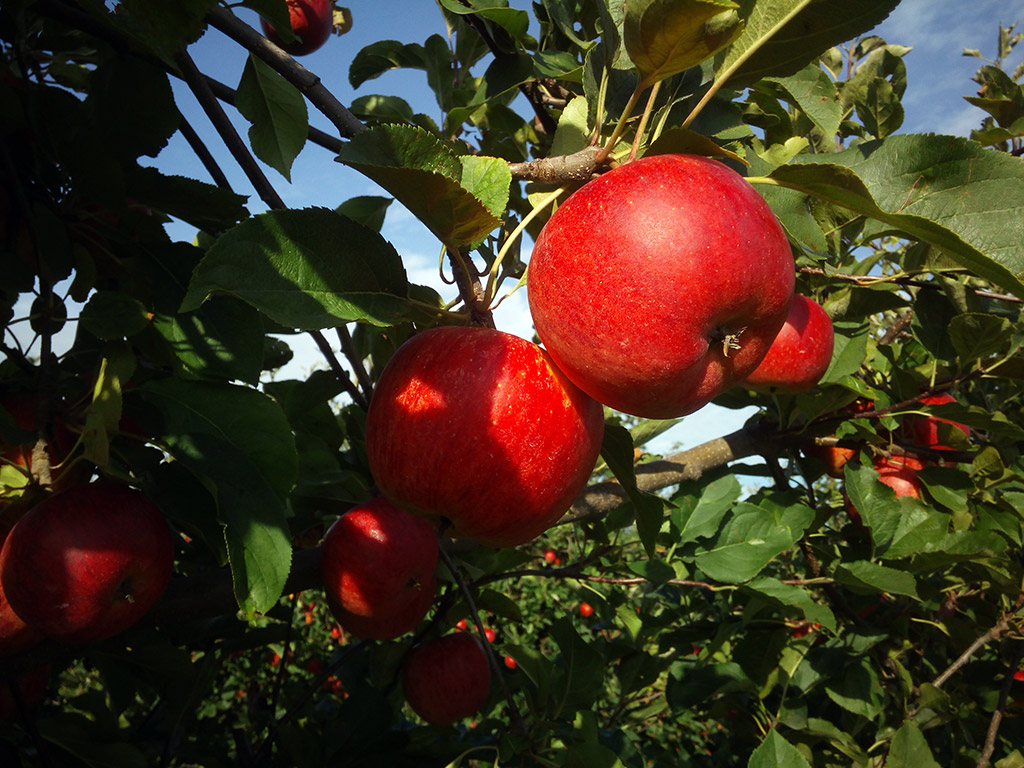
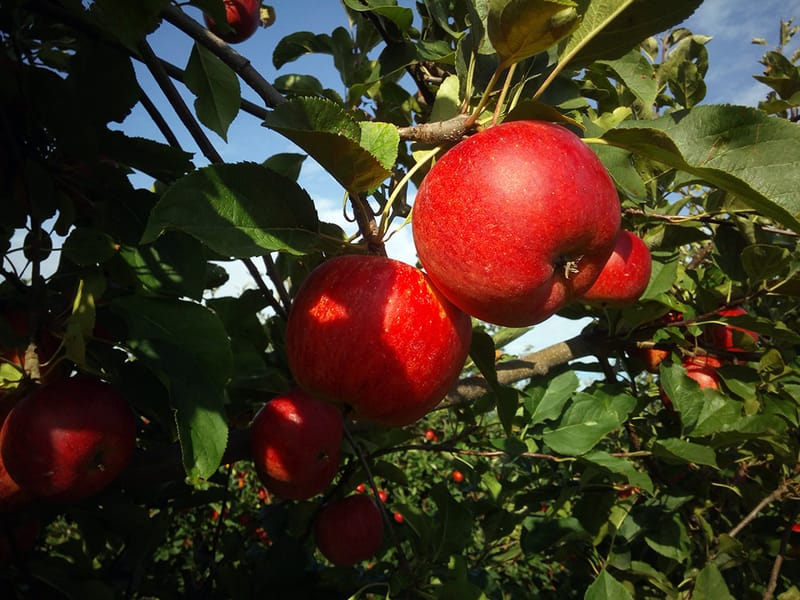
Add 33 new photos, optimize all images, update hero/gallery/spotkaj-nas
- 33 new photos added to gallery with clean names and thumbnails

- Jablkobranie mini-gallery with 14 photos and lightbox on Spotkaj nas page

- New Bazar smakoszy photos replacing old placeholders

- Hero images updated: soki, odmiany, spotkaj-nas, galeria, kontakt

- All images optimized with sharp: hero 1920px, gallery 1600px, thumbnails 600px

- Odmiany thumbnails generated at 400px for grid display

- GalleryPhoto interface extended with thumb field for performance

Made-with: Cursor

Changed region(s): [[0.4688, 0.3, 0.5, 0.39], [0.5, 0.45, 0.5312, 0.48], [0.5, 0.27, 0.5312, 0.3]]

diff --git a/src/components/odwiedz-nas/OdwiedzNasContent.tsx b/src/components/odwiedz-nas/OdwiedzNasContent.tsx
@@ -1,15 +1,52 @@
 "use client";
 
+import { useState, useCallback } from "react";
 import Image from "next/image";
-import Link from "next/link";
 import { motion } from "framer-motion";
 import { Facebook } from "lucide-react";
 import SectionHeading from "@/components/ui/SectionHeading";
 import AnimatedSection from "@/components/ui/AnimatedSection";
 import SalesMap from "@/components/odwiedz-nas/SalesMap";
+import Lightbox from "@/components/ui/Lightbox";
 import { siteConfig } from "@/lib/data";
 
+const jablkobraniePhotos = [
+  { src: "/images/gallery/jablkobranie-glowne.jpg", thumb: "/images/gallery/jablkobranie-glowne-thumb.jpg", alt: "Jabłkobranie u Celmerów — zbiory" },
+  { src: "/images/gallery/jablkobranie-01.jpg", thumb: "/images/gallery/jablkobranie-01-thumb.jpg", alt: "Jabłkobranie — letni sad" },
+  { src: "/images/gallery/jablkobranie-02.jpg", thumb: "/images/gallery/jablkobranie-02-thumb.jpg", alt: "Jabłkobranie — kosze pełne jabłek" },
+  { src: "/images/gallery/jablkobranie-03.jpg", thumb: "/images/gallery/jablkobranie-03-thumb.jpg", alt: "Jabłkobranie — rodzinna zabawa" },
+  { src: "/images/gallery/jablkobranie-04.jpg", thumb: "/images/gallery/jablkobranie-04-thumb.jpg", alt: "Jabłkobranie — zbiory październikowe" },
+  { src: "/images/gallery/jablkobranie-05.jpg", thumb: "/images/gallery/jablkobranie-05-thumb.jpg", alt: "Jabłkobranie — degustacja" },
+  { src: "/images/gallery/jablkobranie-06.jpg", thumb: "/images/gallery/jablkobranie-06-thumb.jpg", alt: "Jabłkobranie — jabłka na drzewach" },
+  { src: "/images/gallery/jablkobranie-07.jpg", thumb: "/images/gallery/jablkobranie-07-thumb.jpg", alt: "Jabłkobranie — wiosenne przygotowania" },
+  { src: "/images/gallery/jablkobranie-08.jpg", thumb: "/images/gallery/jablkobranie-08-thumb.jpg", alt: "Jabłkobranie — sad pełen jabłek" },
+  { src: "/images/gallery/jablkobranie-09.jpg", thumb: "/images/gallery/jablkobranie-09-thumb.jpg", alt: "Jabłkobranie — dojrzałe owoce" },
+  { src: "/images/gallery/jablkobranie-10.jpg", thumb: "/images/gallery/jablkobranie-10-thumb.jpg", alt: "Jabłkobranie — zachód słońca" },
+  { src: "/images/gallery/jablkobranie-11.jpg", thumb: "/images/gallery/jablkobranie-11-thumb.jpg", alt: "Jabłkobranie — świeżo zebrane jabłka" },
+  { src: "/images/gallery/jablkobranie-12.jpg", thumb: "/images/gallery/jablkobranie-12-thumb.jpg", alt: "Jabłkobranie — ostatnie zbiory" },
+  { src: "/images/gallery/jablkobranie-plakat.jpg", thumb: "/images/gallery/jablkobranie-plakat-thumb.jpg", alt: "Jabłkobranie — plakat wydarzenia" },
+];
+
+const lightboxImages = jablkobraniePhotos.map((p) => ({
+  src: p.src,
+  alt: p.alt,
+}));
+
 export default function SpotkajNasContent() {
+  const [lightboxIndex, setLightboxIndex] = useState(-1);
+
+  const handlePrev = useCallback(() => {
+    setLightboxIndex((i) =>
+      i <= 0 ? jablkobraniePhotos.length - 1 : i - 1,
+    );
+  }, []);
+
+  const handleNext = useCallback(() => {
+    setLightboxIndex((i) =>
+      i >= jablkobraniePhotos.length - 1 ? 0 : i + 1,
+    );
+  }, []);
+
   return (
     <>
       {/* ── Jabłkobranie ─────────────────────────────────── */}
@@ -56,16 +93,41 @@ export default function SpotkajNasContent() {
               whileInView={{ opacity: 1, x: 0 }}
               viewport={{ once: true, margin: "-30px" }}
               transition={{ duration: 0.5 }}
-              className="w-full flex-shrink-0 overflow-hidden rounded-2xl shadow-md md:w-[45%]"
+              className="w-full flex-shrink-0 cursor-pointer overflow-hidden rounded-2xl shadow-md md:w-[45%]"
+              onClick={() => setLightboxIndex(0)}
             >
               <Image
-                src="/images/gallery/produkty-w-sadzie.jpg"
-                alt="Produkty w sadzie podczas Jabłkobrania"
-                width={600}
-                height={400}
+                src="/images/gallery/jablkobranie-glowne.jpg"
+                alt="Jabłkobranie u Celmerów — główne zdjęcie"
+                width={800}
+                height={600}
                 className="h-64 w-full object-cover sm:h-80"
               />
             </motion.div>
+          </div>
+
+          {/* Mini gallery */}
+          <div className="mt-8 grid grid-cols-3 gap-2 sm:grid-cols-4 sm:gap-3 md:grid-cols-7">
+            {jablkobraniePhotos.slice(1).map((photo, i) => (
+              <motion.button
+                key={photo.src}
+                initial={{ opacity: 0, y: 12 }}
+                whileInView={{ opacity: 1, y: 0 }}
+                viewport={{ once: true }}
+                transition={{ duration: 0.3, delay: Math.min(i * 0.04, 0.5) }}
+                onClick={() => setLightboxIndex(i + 1)}
+                className="group relative aspect-square overflow-hidden rounded-lg shadow-sm transition-shadow hover:shadow-md"
+              >
+                <Image
+                  src={photo.thumb}
+                  alt={photo.alt}
+                  fill
+                  className="object-cover transition-transform duration-300 group-hover:scale-105"
+                  sizes="(max-width: 640px) 33vw, (max-width: 768px) 25vw, 14vw"
+                />
+                <div className="absolute inset-0 bg-black/0 transition-colors group-hover:bg-black/10" />
+              </motion.button>
+            ))}
           </div>
         </div>
       </section>
@@ -99,14 +161,30 @@ export default function SpotkajNasContent() {
               className="w-full flex-shrink-0 overflow-hidden rounded-2xl shadow-md md:w-[45%]"
             >
               <Image
-                src="/images/gallery/produkty-wystawa.jpg"
-                alt="Wystawa produktów z Sadów Celmerów"
+                src="/images/gallery/bazar-smakoszy-01.jpg"
+                alt="Bazar Smakoszy we Wrocławiu"
                 width={600}
                 height={400}
                 className="h-64 w-full object-cover sm:h-80"
               />
             </motion.div>
           </div>
+
+          <motion.div
+            initial={{ opacity: 0, y: 20 }}
+            whileInView={{ opacity: 1, y: 0 }}
+            viewport={{ once: true, margin: "-30px" }}
+            transition={{ duration: 0.5, delay: 0.1 }}
+            className="mx-auto mt-6 max-w-md overflow-hidden rounded-2xl shadow-md"
+          >
+            <Image
+              src="/images/gallery/bazar-smakoszy-02.jpg"
+              alt="Stoisko Sadów Celmerów na bazarze"
+              width={600}
+              height={400}
+              className="h-56 w-full object-cover sm:h-64"
+            />
+          </motion.div>
         </div>
       </section>
 
@@ -126,6 +204,15 @@ export default function SpotkajNasContent() {
           <SalesMap />
         </div>
       </section>
+
+      <Lightbox
+        images={lightboxImages}
+        currentIndex={lightboxIndex}
+        isOpen={lightboxIndex >= 0}
+        onClose={() => setLightboxIndex(-1)}
+        onPrev={handlePrev}
+        onNext={handleNext}
+      />
     </>
   );
 }

diff --git a/src/lib/data.ts b/src/lib/data.ts
@@ -129,18 +129,20 @@ export const aboutText = [
 export interface AppleVariety {
   name: string;
   image: string;
+  thumb: string;
   placeholder?: boolean;
 }
 
 export const appleVarieties: AppleVariety[] = [
-  { name: "Topaz", image: "/images/odmiany/topaz.jpg" },
-  { name: "Rubinola", image: "/images/odmiany/rubinola.jpg" },
-  { name: "Golden Delicious", image: "/images/odmiany/golden-delicious.jpg" },
-  { name: "Rubin", image: "/images/odmiany/rubin.jpg" },
-  { name: "Rubinstar", image: "/images/odmiany/rubinstar.jpg" },
+  { name: "Topaz", image: "/images/odmiany/topaz.jpg", thumb: "/images/odmiany/topaz-thumb.jpg" },
+  { name: "Rubinola", image: "/images/odmiany/rubinola.jpg", thumb: "/images/odmiany/rubinola-thumb.jpg" },
+  { name: "Golden Delicious", image: "/images/odmiany/golden-delicious.jpg", thumb: "/images/odmiany/golden-delicious-thumb.jpg" },
+  { name: "Rubin", image: "/images/odmiany/rubin.jpg", thumb: "/images/odmiany/rubin-thumb.jpg" },
+  { name: "Rubinstar", image: "/images/odmiany/rubinstar.jpg", thumb: "/images/odmiany/rubinstar-thumb.jpg" },
   {
     name: "Red Jonaprince Select",
     image: "/images/odmiany/red-jonaprince-select.jpg",
+    thumb: "/images/odmiany/red-jonaprince-select.jpg",
     placeholder: true,
   },
 ];
@@ -215,69 +217,62 @@ export const reviews: Review[] = [
 
 export interface GalleryPhoto {
   src: string;
+  thumb: string;
   alt: string;
-  category: "sad" | "produkty" | "przyroda";
+  category: "sad" | "produkty" | "przyroda" | "jablkobranie" | "bazar";
 }
 
+const g = (name: string, alt: string, category: GalleryPhoto["category"]): GalleryPhoto => ({
+  src: `/images/gallery/${name}.jpg`,
+  thumb: `/images/gallery/${name}-thumb.jpg`,
+  alt,
+  category,
+});
+
 export const galleryPhotos: GalleryPhoto[] = [
-  {
-    src: "/images/gallery/sad-jablonie.jpg",
-    alt: "Jabłonie w sadzie",
-    category: "sad",
-  },
-  {
-    src: "/images/gallery/jablka-na-drzewie.jpg",
-    alt: "Jabłka na drzewie",
-    category: "sad",
-  },
-  {
-    src: "/images/gallery/jablka-zblizenie.jpg",
-    alt: "Jabłka — zbliżenie",
-    category: "sad",
-  },
-  {
-    src: "/images/gallery/odmiany-na-galezi.jpg",
-    alt: "Odmiany jabłek na gałęzi",
-    category: "sad",
-  },
-  {
-    src: "/images/gallery/czerwone-jablka.jpg",
-    alt: "Czerwone jabłka w słońcu",
-    category: "sad",
-  },
-  {
-    src: "/images/gallery/pszczola-na-kwiecie.jpg",
-    alt: "Pszczoła miodna na kwiecie jabłoni",
-    category: "przyroda",
-  },
-  {
-    src: "/images/gallery/produkty-w-sadzie.jpg",
-    alt: "Produkty Sady Celmerów w sadzie",
-    category: "produkty",
-  },
-  {
-    src: "/images/gallery/produkty-wystawa.jpg",
-    alt: "Wystawa produktów z jabłkami",
-    category: "produkty",
-  },
-  {
-    src: "/images/gallery/sok-jablkowy-produkt.jpg",
-    alt: "Sok jabłkowy — karton i butelka",
-    category: "produkty",
-  },
-  {
-    src: "/images/gallery/ptasie-gniazdo.jpg",
-    alt: "Ptasie gniazdo w jabłoni",
-    category: "przyroda",
-  },
-  {
-    src: "/images/gallery/sarenka-w-sadzie.jpg",
-    alt: "Sarenka w sadzie",
-    category: "przyroda",
-  },
-  {
-    src: "/images/gallery/sad-zima.jpg",
-    alt: "Sad zimą",
-    category: "sad",
-  },
+  g("jablkobranie-glowne", "Jabłkobranie u Celmerów — zbiory", "jablkobranie"),
+  g("sad-jablonie", "Jabłonie w sadzie", "sad"),
+  g("sad-panorama", "Panorama sadu", "sad"),
+  g("jablka-na-drzewie", "Jabłka na drzewie", "sad"),
+  g("jablkobranie-08", "Jabłkobranie — sad pełen jabłek", "jablkobranie"),
+  g("bazar-smakoszy-01", "Bazar Smakoszy we Wrocławiu", "bazar"),
+  g("sad-kwitnacy", "Kwitnące jabłonie wiosną", "sad"),
+  g("jablka-zblizenie", "Jabłka — zbliżenie", "sad"),
+  g("sad-nowe-03", "Jabłonie wiosną w pełnym rozkwicie", "sad"),
+  g("jablkobranie-10", "Jabłkobranie — zachód słońca w sadzie", "jablkobranie"),
+  g("produkty-w-sadzie", "Produkty Sady Celmerów w sadzie", "produkty"),
+  g("sad-nowe-06", "Jabłka dojrzewające na gałęzi", "sad"),
+  g("odmiany-na-galezi", "Odmiany jabłek na gałęzi", "sad"),
+  g("jablkobranie-02", "Jabłkobranie — kosze pełne jabłek", "jablkobranie"),
+  g("bazar-smakoszy-02", "Stoisko Sadów Celmerów na bazarze", "bazar"),
+  g("sad-nowe-05", "Poranny sad w promieniach słońca", "sad"),
+  g("czerwone-jablka", "Czerwone jabłka w słońcu", "sad"),
+  g("jablkobranie-04", "Jabłkobranie — zbiory październikowe", "jablkobranie"),
+  g("sad-nowe-07", "Dojrzałe jabłka w sadzie", "sad"),
+  g("produkty-wystawa", "Wystawa produktów z jabłkami", "produkty"),
+  g("sad-nowe-01", "Sad Celmerów — widok ogólny", "sad"),
+  g("pszczola-na-kwiecie", "Pszczoła miodna na kwiecie jabłoni", "przyroda"),
+  g("jablkobranie-11", "Jabłkobranie — świeżo zebrane jabłka", "jablkobranie"),
+  g("sad-nowe-04", "Wieczór w sadzie", "sad"),
+  g("sok-jablkowy-produkt", "Sok jabłkowy — karton i butelka", "produkty"),
+  g("sad-nowe-08", "Jabłka gotowe do zbioru", "sad"),
+  g("jablkobranie-plakat", "Jabłkobranie — plakat wydarzenia", "jablkobranie"),
+  g("sad-nowe-02", "Sad Celmerów — drzewa jabłoni", "sad"),
+  g("ptasie-gniazdo", "Ptasie gniazdo w jabłoni", "przyroda"),
+  g("sad-nowe-09", "Jesień w sadzie jabłkowym", "sad"),
+  g("jablkobranie-03", "Jabłkobranie — rodzinna zabawa", "jablkobranie"),
+  g("sarenka-w-sadzie", "Sarenka w sadzie", "przyroda"),
+  g("sad-jesien", "Sad jesienią — złote liście", "sad"),
+  g("sad-nowe-10", "Jabłonie wieczorem", "sad"),
+  g("jablkobranie-05", "Jabłkobranie — degustacja", "jablkobranie"),
+  g("sad-nowe-11", "Zbiory jabłek w październiku", "sad"),
+  g("sad-zima", "Sad zimą", "sad"),
+  g("sad-zima-nowe", "Sad w zimowej szacie", "sad"),
+  g("sad-nowe-12", "Sad Celmerów zimą", "sad"),
+  g("sad-nowe-13", "Poranne przymrozki w sadzie", "sad"),
+  g("jablkobranie-06", "Jabłkobranie — jabłka na drzewach", "jablkobranie"),
+  g("jablkobranie-07", "Jabłkobranie — wiosenne przygotowania", "jablkobranie"),
+  g("jablkobranie-09", "Jabłkobranie — dojrzałe owoce", "jablkobranie"),
+  g("jablkobranie-12", "Jabłkobranie — ostatnie zbiory", "jablkobranie"),
+  g("jablkobranie-01", "Jabłkobranie — letni sad", "jablkobranie"),
 ];

diff --git a/src/components/galeria/GalleryGrid.tsx b/src/components/galeria/GalleryGrid.tsx
@@ -116,7 +116,7 @@ export default function GalleryGrid() {
             initial={{ opacity: 0, y: 12 }}
             whileInView={{ opacity: 1, y: 0 }}
             viewport={{ once: true }}
-            transition={{ duration: 0.3, delay: i * 0.03 }}
+            transition={{ duration: 0.3, delay: Math.min(i * 0.03, 0.6) }}
             onClick={() => setLightboxIndex(i)}
             className={`group relative aspect-square overflow-hidden rounded-lg transition-all ${
               i === selectedSnap
@@ -125,7 +125,7 @@ export default function GalleryGrid() {
             }`}
           >
             <Image
-              src={photo.src}
+              src={photo.thumb}
               alt={photo.alt}
               fill
               className="object-cover transition-transform duration-300 group-hover:scale-105"

diff --git a/src/components/home/InfiniteMarquee.tsx b/src/components/home/InfiniteMarquee.tsx
@@ -9,7 +9,7 @@ export default function InfiniteMarquee() {
   const [lightboxIndex, setLightboxIndex] = useState(-1);
 
   const images = useMemo(
-    () => galleryPhotos.map((p) => ({ src: p.src, alt: p.alt })),
+    () => galleryPhotos.map((p) => ({ src: p.src, thumb: p.thumb, alt: p.alt })),
     [],
   );
   const allImages = useMemo(() => [...images, ...images], [images]);
@@ -33,7 +33,7 @@ export default function InfiniteMarquee() {
             className="relative h-48 w-72 flex-shrink-0 cursor-pointer overflow-hidden rounded-xl md:h-56 md:w-80"
           >
             <Image
-              src={img.src}
+              src={img.thumb}
               alt={img.alt}
               fill
               className="object-cover transition-transform duration-300 hover:scale-105"

diff --git a/src/app/galeria/page.tsx b/src/app/galeria/page.tsx
@@ -13,7 +13,7 @@ export const metadata: Metadata = {
 export default function GaleriaPage() {
   return (
     <>
-      <PageHero imageSrc="/images/gallery/czerwone-jablka.jpg" alt="Galeria zdjęć z Sadów Celmerów — czerwone jabłka" />
+      <PageHero imageSrc="/images/hero/hero-galeria.jpg" alt="Galeria zdjęć z Sadów Celmerów — kwitnące jabłonie" />
 
       <section className="section-padding bg-cream-50">
         <SectionHeading>Galeria zdjęć</SectionHeading>

diff --git a/src/app/kontakt/page.tsx b/src/app/kontakt/page.tsx
@@ -14,7 +14,7 @@ export const metadata: Metadata = {
 export default function KontaktPage() {
   return (
     <>
-      <PageHero imageSrc="/images/hero/big-photo2.jpg" alt="Kontakt z Sadami Celmerów — sad jabłoniowy" />
+      <PageHero imageSrc="/images/hero/hero-kontakt.jpg" alt="Kontakt z Sadami Celmerów — sad jesienią" />
 
       <section className="section-padding bg-cream-50">
         <SectionHeading>Skontaktuj się z nami!</SectionHeading>

diff --git a/src/app/soki/page.tsx b/src/app/soki/page.tsx
@@ -14,7 +14,7 @@ export const metadata: Metadata = {
 export default function SokiPage() {
   return (
     <>
-      <PageHero imageSrc="/images/hero/big-photo2.jpg" alt="Naturalne soki jabłkowe z Sadów Celmerów" />
+      <PageHero imageSrc="/images/hero/big-photo1.jpg" alt="Naturalne soki jabłkowe z Sadów Celmerów" />
 
       <section className="section-padding bg-cream-50">
         <SectionHeading>Nasze soki</SectionHeading>

diff --git a/src/app/odmiany/page.tsx b/src/app/odmiany/page.tsx
@@ -12,7 +12,7 @@ export const metadata: Metadata = {
 export default function OdmianyPage() {
   return (
     <>
-      <PageHero imageSrc="/images/hero/big-photo4.jpg" alt="Odmiany jabłek uprawiane w Sadach Celmerów" />
+      <PageHero imageSrc="/images/hero/hero-odmiany.jpg" alt="Odmiany jabłek uprawiane w Sadach Celmerów" />
       <OdmianyContent />
     </>
   );

diff --git a/src/components/odmiany/AppleCard.tsx b/src/components/odmiany/AppleCard.tsx
@@ -28,7 +28,7 @@ export default function AppleCard({ variety, index, onClick }: AppleCardProps) {
           </div>
         ) : (
           <Image
-            src={variety.image}
+            src={variety.thumb}
             alt={variety.name}
             fill
             className="object-cover transition-transform duration-500 group-hover:scale-110"

diff --git a/src/app/spotkaj-nas/page.tsx b/src/app/spotkaj-nas/page.tsx
@@ -13,7 +13,7 @@ export default function SpotkajNasPage() {
   return (
     <>
       <PageHero
-        imageSrc="/images/hero/big-photo1.jpg"
+        imageSrc="/images/hero/hero-spotkaj-nas.jpg"
         alt="Spotkaj Sady Celmerów"
       />
       <SpotkajNasContent />
